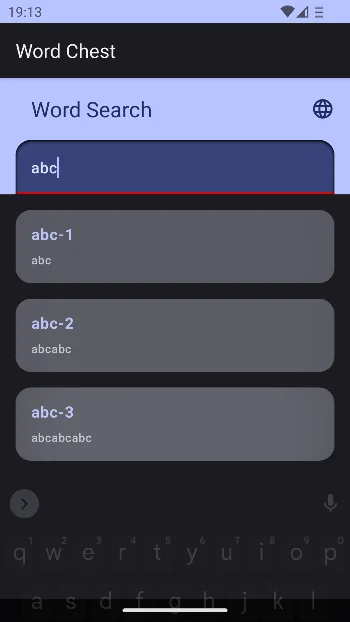
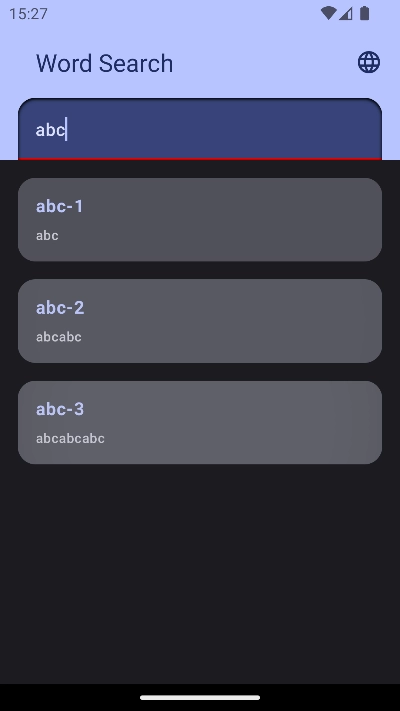
Screenshot improvements

diff --git a/app/src/androidTest/java/com/payamgr/wordchest/ui/modules/SplashScreenTest.kt b/app/src/androidTest/java/com/payamgr/wordchest/ui/modules/SplashScreenTest.kt
@@ -1,29 +1,44 @@
 package com.payamgr.wordchest.ui.modules
 
+import androidx.activity.ComponentActivity
 import androidx.compose.foundation.layout.fillMaxSize
 import androidx.compose.material3.MaterialTheme
 import androidx.compose.material3.Surface
 import androidx.compose.ui.Modifier
 import androidx.compose.ui.test.hasStateDescription
 import androidx.compose.ui.test.isDisplayed
-import androidx.compose.ui.test.junit4.createComposeRule
+import androidx.compose.ui.test.junit4.createAndroidComposeRule
 import androidx.compose.ui.test.onNodeWithContentDescription
 import androidx.compose.ui.test.onNodeWithTag
 import com.payamgr.wordchest.ui.theme.WordChestTheme
 import com.payamgr.wordchest.util.Screenshot
+import com.payamgr.wordchest.util.hideActionBar
 import com.payamgr.wordchest.util.take
 import io.mockk.justRun
 import io.mockk.mockk
 import io.mockk.verify
 import kotlinx.coroutines.sync.Mutex
 import kotlinx.coroutines.test.runTest
+import org.junit.Before
 import org.junit.Rule
 import org.junit.Test
 
-class SplashScreenTest {
-    @get:Rule
-    val rule = createComposeRule()
+//class SplashScreenTest {
+//    @get:Rule
+//    val rule = createComposeRule()
+//}
 
+abstract class ActivityTest {
+    @get:Rule
+    val rule = createAndroidComposeRule<ComponentActivity>()
+
+    @Before
+    fun setup() {
+        rule.hideActionBar()
+    }
+}
+
+class SplashScreenActivityTest : ActivityTest() {
     @Test
     fun moduleTest() = runTest {
         val onEnd = mockk<() -> Unit>()
@@ -53,6 +68,7 @@ class SplashScreenTest {
         rule.onNodeWithContentDescription("Splashscreen").isDisplayed()
         rule.onNodeWithTag("SplashScreen.IconBackground").isDisplayed()
         rule.onNodeWithContentDescription("Animated Vector: Splashscreen Icon").isDisplayed()
+
         Screenshot.Splashscreen.take()
 
         // - Verify the initial state transition from 'Beginning' to 'End'

diff --git a/app/src/androidTest/java/com/payamgr/wordchest/ui/page/home/HomeTest.kt b/app/src/androidTest/java/com/payamgr/wordchest/ui/page/home/HomeTest.kt
@@ -24,6 +24,7 @@ import androidx.test.espresso.Espresso
 import androidx.test.filters.MediumTest
 import com.airbnb.mvrx.mocking.MockableMavericks
 import com.payamgr.wordchest.data.model.Word
+import com.payamgr.wordchest.ui.modules.ActivityTest
 import com.payamgr.wordchest.ui.theme.WordChestTheme
 import com.payamgr.wordchest.util.FakeHomeViewModel
 import com.payamgr.wordchest.util.Screenshot
@@ -36,7 +37,6 @@ import io.mockk.mockk
 import io.mockk.verify
 import org.junit.Rule
 import org.junit.Test
-
 
 @MediumTest
 class HomeTest {
@@ -121,13 +121,17 @@ class HomeTest {
 
         confirmVerified(onItemClick)
     }
+}
 
+@MediumTest
+class HomeActivityTest : ActivityTest() {
     @Test
     fun pageTest() {
         val onItemClick = mockk<(String) -> Unit>()
         justRun { onItemClick(any()) }
         MockableMavericks.initialize(app)
         val viewModel = FakeHomeViewModel()
+
         rule.setContent {
             WordChestTheme {
                 Surface(
@@ -170,12 +174,10 @@ class HomeTest {
                 get(2).assertContentDescriptionEquals("abc-3: abcabcabc").performClick()
                 verify { onItemClick("abc-3") }
             }
+
         confirmVerified(onItemClick)
 
-        // Hide the keyboard
-        Espresso.pressBack()
-        rule.waitForIdle()
-
+        Espresso.closeSoftKeyboard()
         Screenshot.Home.take()
     }
 }

diff --git a/app/src/androidTest/java/com/payamgr/wordchest/util/PlatformHelper.kt b/app/src/androidTest/java/com/payamgr/wordchest/util/PlatformHelper.kt
@@ -3,8 +3,11 @@ package com.payamgr.wordchest.util
 import android.app.UiAutomation
 import android.content.Context
 import android.graphics.Bitmap
+import androidx.activity.ComponentActivity
+import androidx.compose.ui.test.junit4.AndroidComposeTestRule
 import androidx.compose.ui.test.junit4.ComposeContentTestRule
 import androidx.core.graphics.scale
+import androidx.test.ext.junit.rules.ActivityScenarioRule
 import androidx.test.platform.app.InstrumentationRegistry
 import java.io.File
 import kotlin.math.min
@@ -66,3 +69,7 @@ private fun getTargetDimensions(minDimension: Int, width: Int, height: Int) = if
     minDimension to minDimension * height / width
 else
     minDimension * width / height to minDimension
+
+fun AndroidComposeTestRule<ActivityScenarioRule<ComponentActivity>, *>.hideActionBar() {
+    activityRule.scenario.onActivity { it.actionBar?.hide() }
+}

diff --git a/app/src/androidTest/java/com/payamgr/wordchest/ui/page/worddetail/WordDetailTest.kt b/app/src/androidTest/java/com/payamgr/wordchest/ui/page/worddetail/WordDetailTest.kt
@@ -39,6 +39,7 @@ import com.payamgr.wordchest.data.model.Word
 import com.payamgr.wordchest.data.model.WordKey
 import com.payamgr.wordchest.data.model.fake.FakeWord
 import com.payamgr.wordchest.data.state.WordDetailState
+import com.payamgr.wordchest.ui.modules.ActivityTest
 import com.payamgr.wordchest.ui.theme.WordChestTheme
 import com.payamgr.wordchest.util.FakeWordData
 import com.payamgr.wordchest.util.FakeWordDetailViewModel
@@ -371,7 +372,10 @@ class WordDetailTest {
             .onChildren()
             .assertCountEquals(3)
     }
+}
 
+@MediumTest
+class WordDetailActivityTest : ActivityTest() {
     @Test
     fun page_initialState_check() {
         MockableMavericks.initialize(app)

diff --git a/app/src/androidTest/java/com/payamgr/wordchest/util/Screenshot.kt b/app/src/androidTest/java/com/payamgr/wordchest/util/Screenshot.kt
@@ -14,8 +14,8 @@ enum class Screenshot {
 fun Screenshot.take(
     fileExtensions: String = "webp",
     compressFormat: CompressFormat = CompressFormat.WEBP_LOSSY,
-    qualityPercentage: Int = 85,
-    minDimension: Int = 350,
+    qualityPercentage: Int = 100,
+    minDimension: Int = 400,
 ) = takeScreenshot(
     this,
     fileExtensions,

diff --git a/README.md b/README.md
@@ -65,6 +65,6 @@ The results are stored in the `./docs/screenshots` directory.
   - [x] History of Searches
 - [ ] Word Reminder
 - [ ] Language Selection
-- [ ] Screenshot improvement
-  - [ ] Home page soft keyboard should completely hide
-  - [ ] Screenshots have actionbar and are not adhering to the app theme
+- [x] Screenshot improvement
+  - [x] Home page soft keyboard should completely hide
+  - [x] Screenshots should not have actionbars
